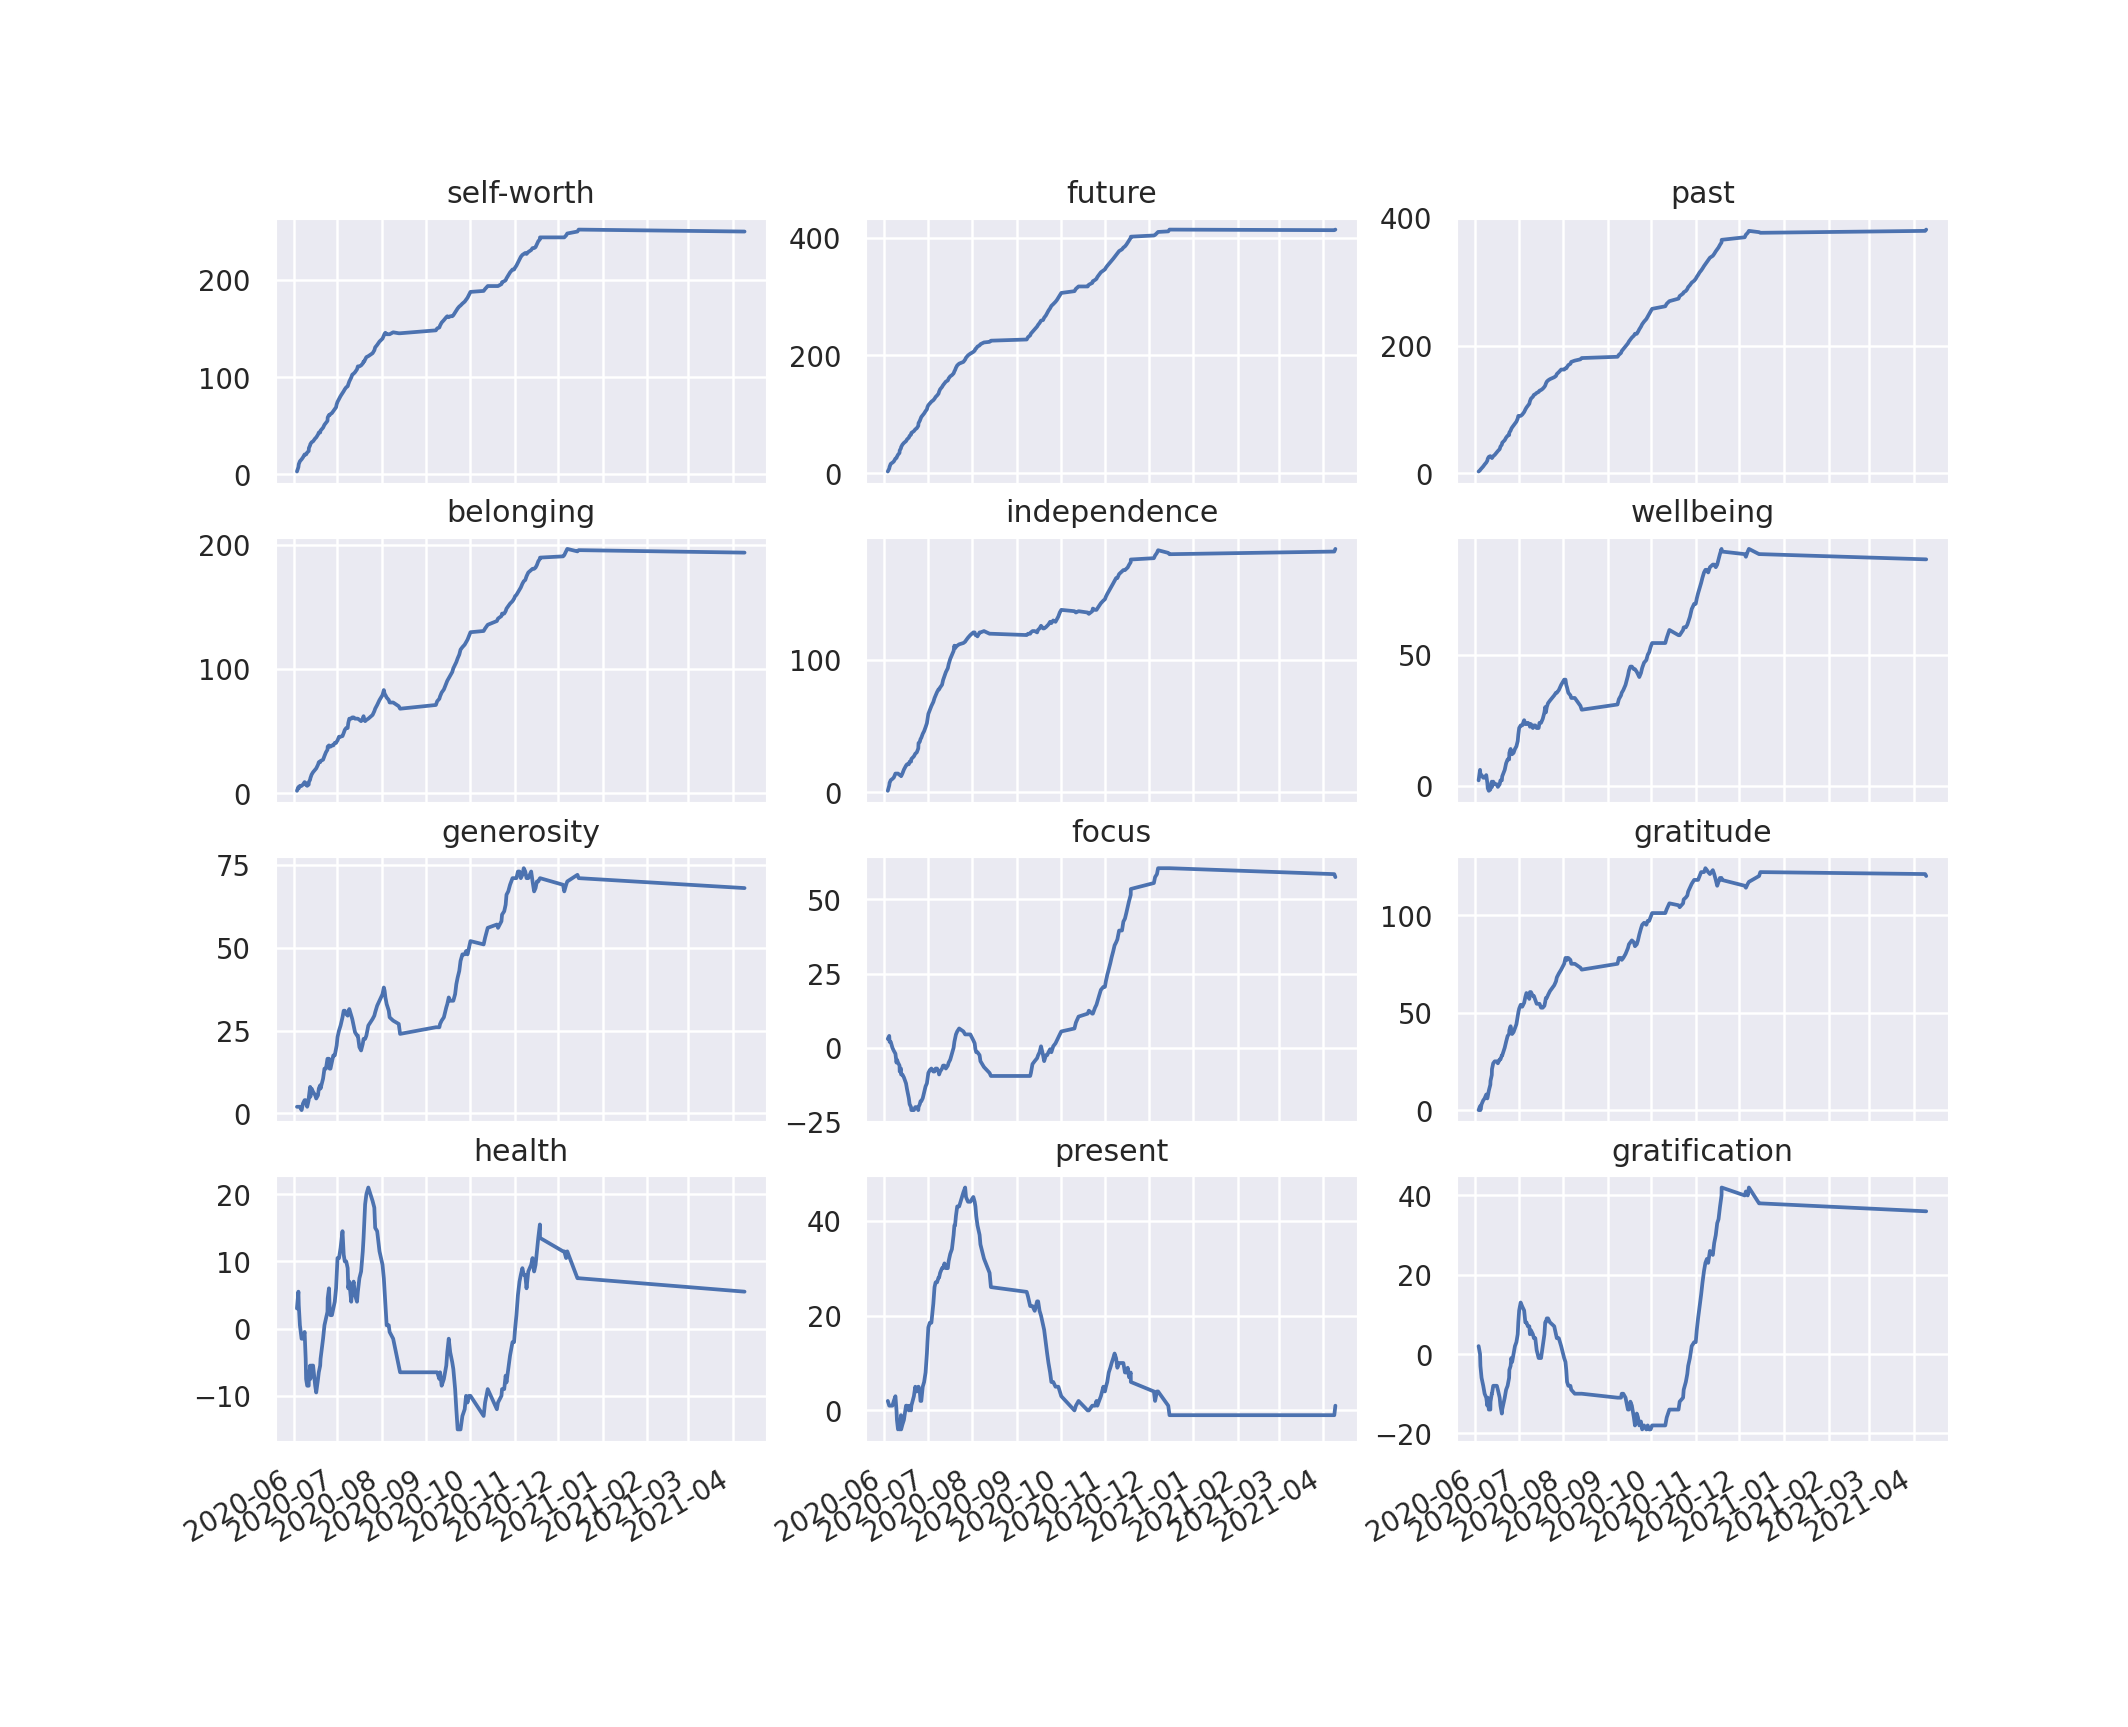
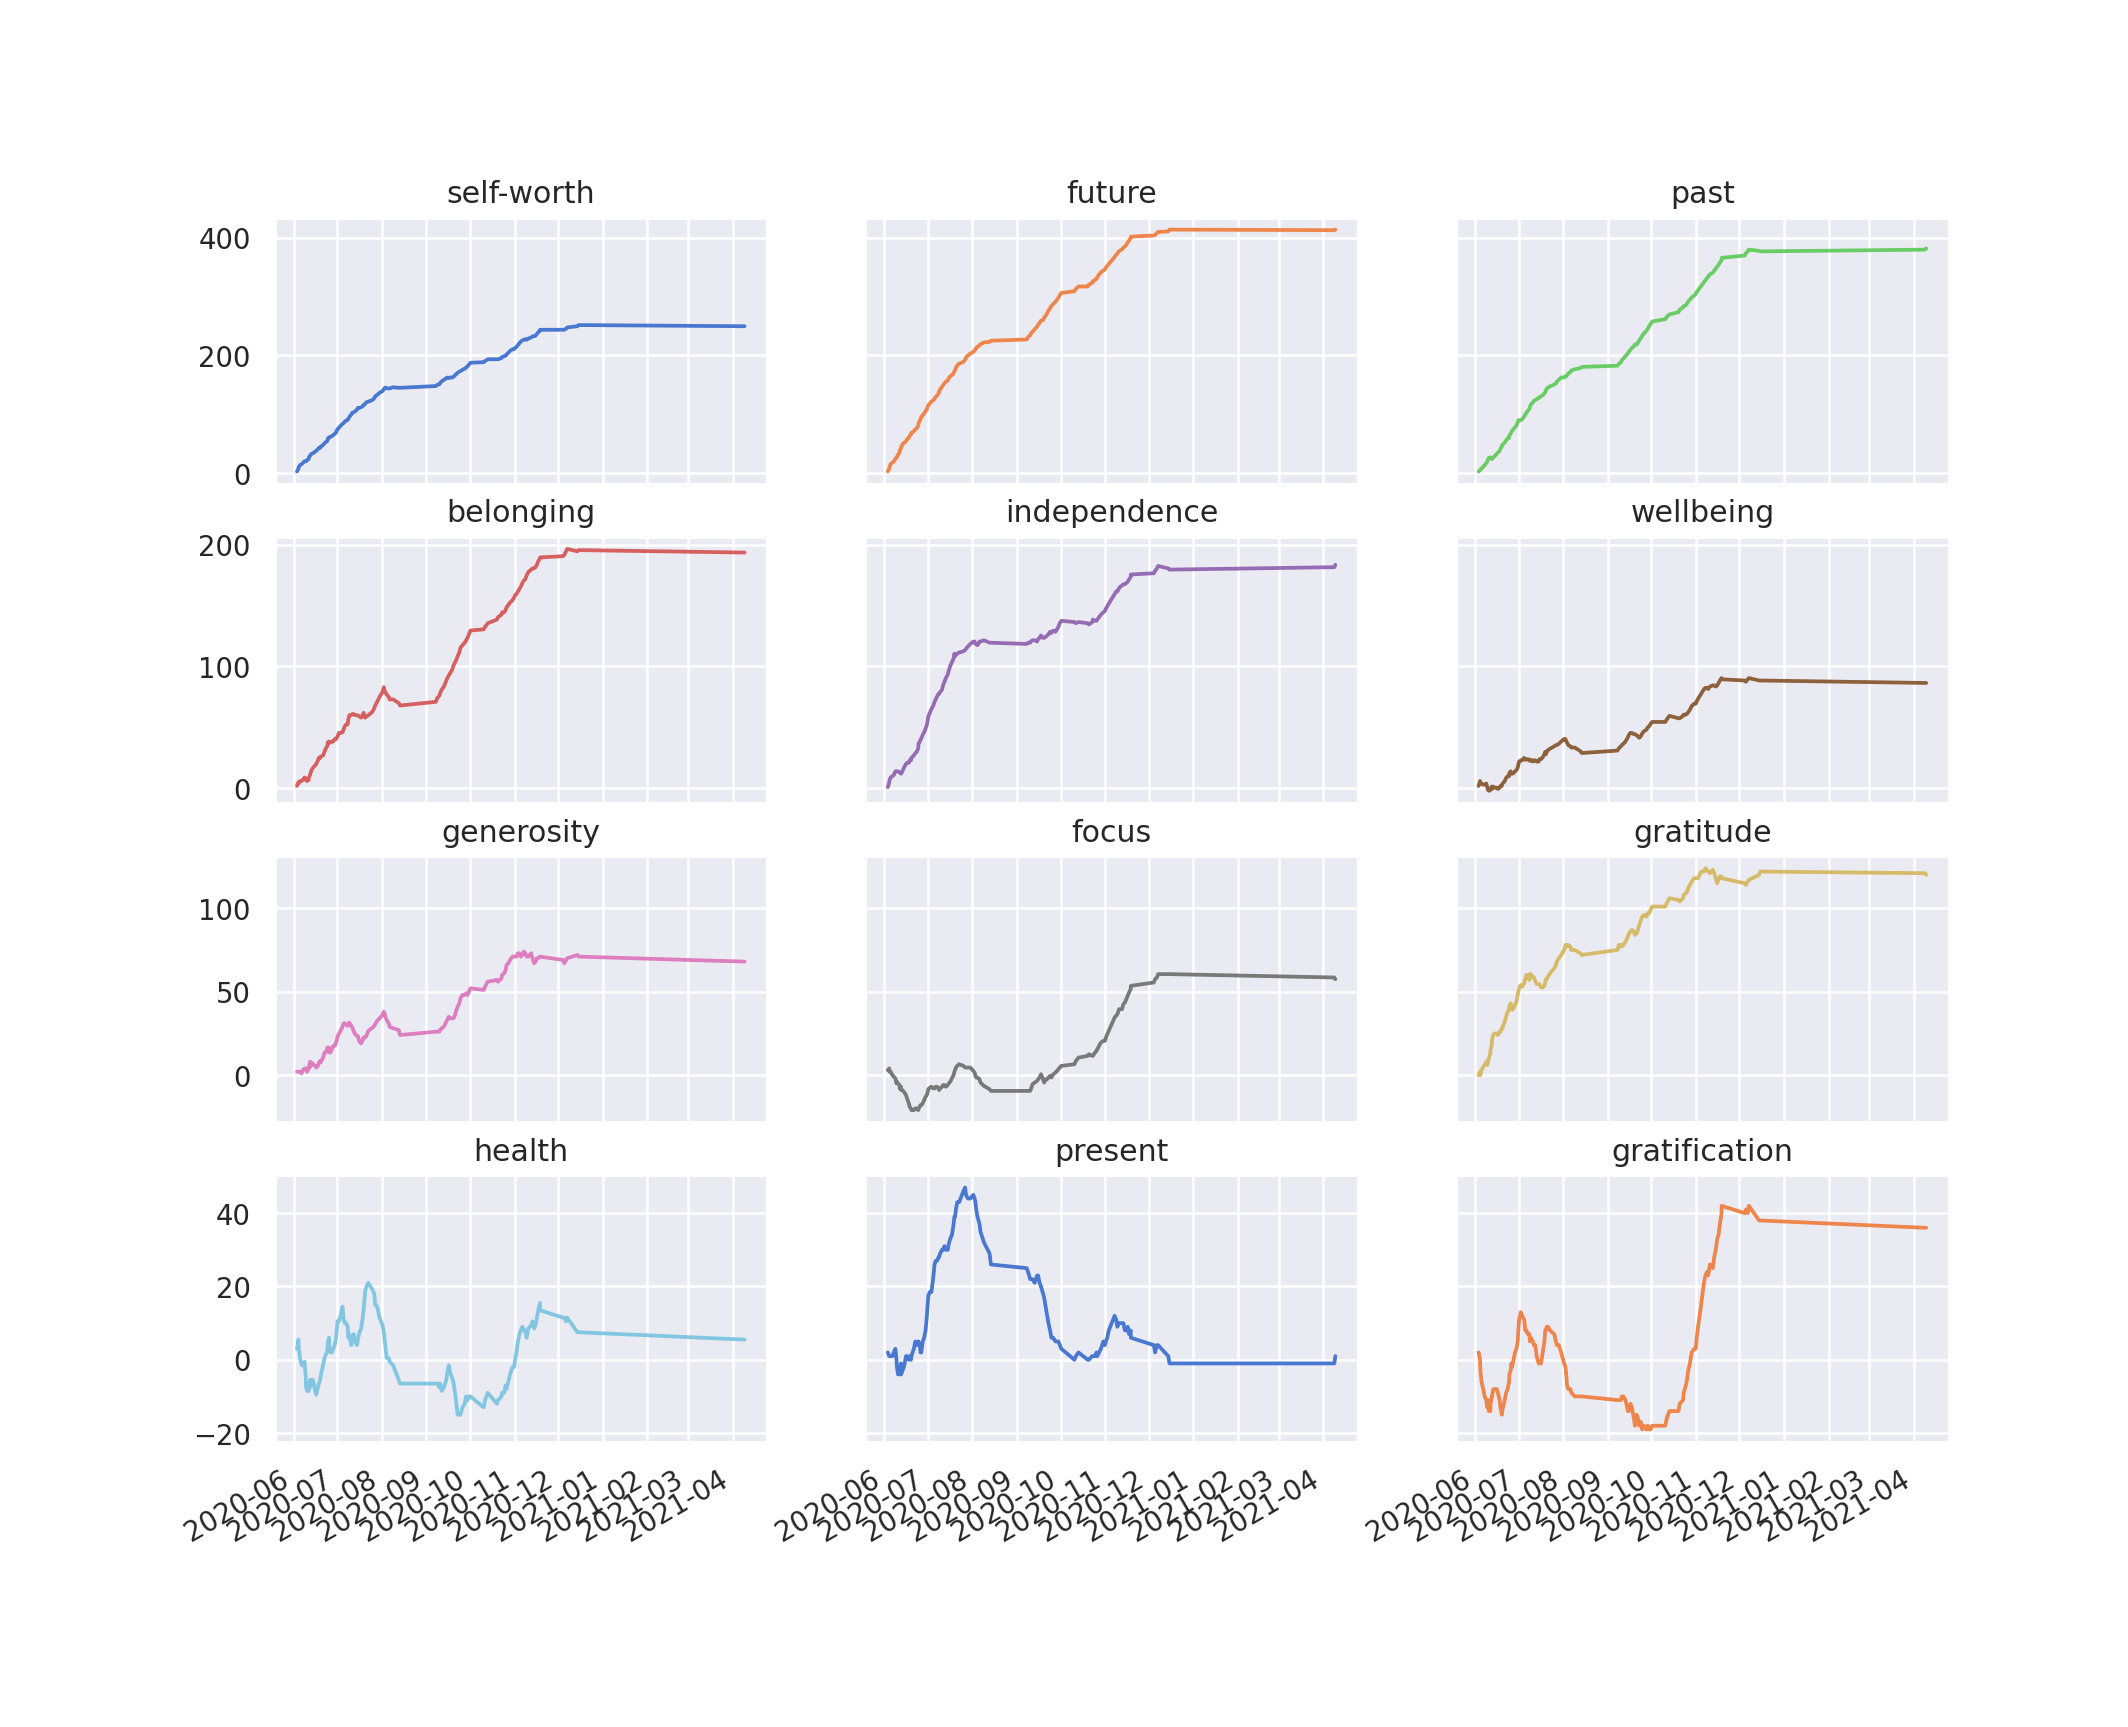
Add colors, move regressions to one table

diff --git a/gamithra.py b/gamithra.py
@@ -1,5 +1,7 @@
 from glob import glob
 from datetime import datetime
+from itertools import cycle
+
 import yaml
 import os
 
@@ -40,24 +42,37 @@ df.sort_index(inplace=True)
 
 # %%
 os.chdir("results")
-# %%
 features = ['self-worth', 'future', 'past', 'belonging', 'independence', 'wellbeing', 'generosity', 'focus', 'gratitude', 'health', 'present', 'gratification']
-for key in features:
-    sns.lmplot(x='date_delta', y=key, data=df, lowess=True)
-    # plt.show()
-    plt.savefig(key + ".png", dpi=180, pad_inches=1, bbox_inches="tight")
+
+# %%
+# summarise points
+colors = cycle(sns.color_palette("muted"))
+
+fig, axs = plt.subplots(4,3, sharex="all", sharey="all", figsize=(12, 10))
+for key, ax in zip(features, axs.flat):
+    sns.regplot(ax=ax, x=df.index, y=key, data=df, lowess=True, color=next(colors))
+    ax.set_title(key)
+    # ax.set_xlabel("")
+    ax.tick_params(axis='y', labelleft=True)
+
+plt.show()
+sns.despine()
+# plt.savefig("summarise_points.png", dpi=180, pad_inches=1, bbox_inches="tight")
 
 
 # %%
-fig, axs = plt.subplots(4,3, sharex=True, figsize=(12, 10))
+# cumulative change
+colors = cycle(sns.color_palette("muted"))
+
+fig, axs = plt.subplots(4,3, sharex="all", sharey="row", figsize=(12, 10))
 for key, ax in zip(features, axs.flat):
-    ax.plot((df[key] - 5).cumsum())
+    ax.plot((df[key] - 5).cumsum(), color=next(colors))
     ax.set_title(key)
 
 fig.autofmt_xdate()
 # plt.show()
 plt.savefig("cumulative_change.png", dpi=180, pad_inches=1, bbox_inches="tight")
-
+plt.show()
 # %%
 
 #corr_mat = df[features].corr().stack().reset_index(name="correlation")

diff --git a/README.md b/README.md
@@ -14,18 +14,7 @@ Plot goes up when the measure is on the positive side (> 5), down when on the ne
 ![cumulative](https://raw.githubusercontent.com/KingBoomie/open-source-human-analysis/master/results/cumulative_change.png)
 
 ### Linear regressions
-![belonging](https://raw.githubusercontent.com/KingBoomie/open-source-human-analysis/master/results/belonging.png)    
-![focus](https://raw.githubusercontent.com/KingBoomie/open-source-human-analysis/master/results/focus.png)    
-![future](https://raw.githubusercontent.com/KingBoomie/open-source-human-analysis/master/results/future.png)
-![generosity](https://raw.githubusercontent.com/KingBoomie/open-source-human-analysis/master/results/generosity.png)
-![gratification](https://raw.githubusercontent.com/KingBoomie/open-source-human-analysis/master/results/gratification.png)
-![gratitude](https://raw.githubusercontent.com/KingBoomie/open-source-human-analysis/master/results/gratitude.png)
-![health](https://raw.githubusercontent.com/KingBoomie/open-source-human-analysis/master/results/health.png)
-![independence](https://raw.githubusercontent.com/KingBoomie/open-source-human-analysis/master/results/independence.png)
-![past](https://raw.githubusercontent.com/KingBoomie/open-source-human-analysis/master/results/past.png)
-![present](https://raw.githubusercontent.com/KingBoomie/open-source-human-analysis/master/results/present.png)
-![self-worth](https://raw.githubusercontent.com/KingBoomie/open-source-human-analysis/master/results/self-worth.png)
-![wellbeing](https://raw.githubusercontent.com/KingBoomie/open-source-human-analysis/master/results/wellbeing.png)
+![summary](https://raw.githubusercontent.com/KingBoomie/open-source-human-analysis/master/results/summarise_points.png)    
 
 ### Pairwise (pearson) correlations
 ![correlations](https://raw.githubusercontent.com/KingBoomie/open-source-human-analysis/master/results/correlations.png)
